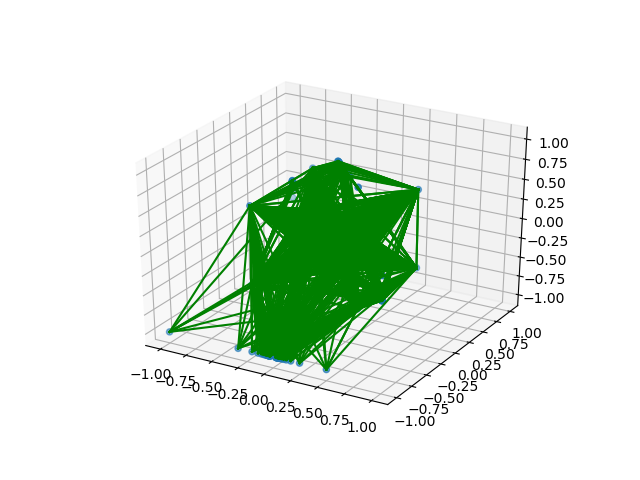
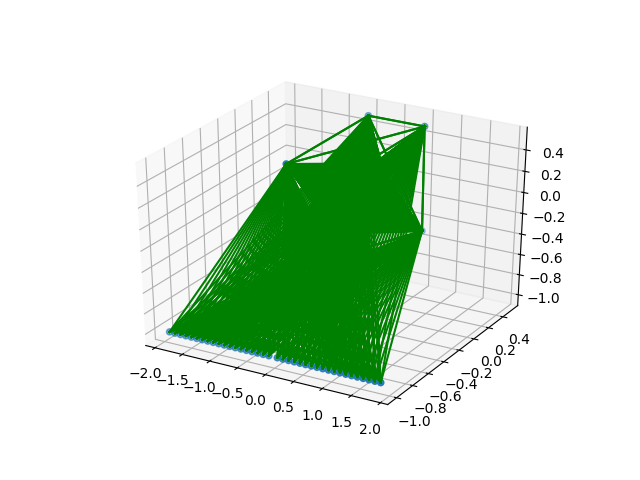
yes

diff --git a/trading_purples.py b/trading_purples.py
@@ -22,19 +22,12 @@ class PurpleTrader:
     #needs to be initialized so as to allow for 62 outputs that return a coordinate
 
     # ES-HyperNEAT specific parameters.
-    params = {"initial_depth": 3, 
+    params = {"initial_depth": 2, 
             "max_depth": 6, 
-<<<<<<< HEAD
-            "variance_threshold": 0.03, 
-            "band_threshold": 0.3, 
-            "iteration_level": 3,
-            "division_threshold": 0.01, 
-=======
-            "variance_threshold": 0.034, 
-            "band_threshold": 0.0034, 
+            "variance_threshold": 0.0013, 
+            "band_threshold": 0.034, 
             "iteration_level": 3,
             "division_threshold": 0.0013, 
->>>>>>> 4da5a6491cbcdd6972a6d0d20077993777c94ed3
             "max_weight": 5.0, 
             "activation": "tanh"}
 
@@ -63,9 +56,9 @@ class PurpleTrader:
         sign = 1
         for ix in range(1,self.outputs+1):
             sign = sign *-1
-            self.out_shapes.append((0.0-(sign*.01*ix), -1.0, -1.0))
+            self.out_shapes.append((0.0-(sign*.05*ix), -1.0, -1.0))
             for ix2 in range(1,(self.inputs//self.outputs)+1):
-                self.in_shapes.append((0.0-(sign*.01*ix2), 0.0+(sign*.01*ix), 0.0-(sign*.01*ix2)))
+                self.in_shapes.append((0.0-(sign*.01*ix2), 0.0+(sign*.01*ix), 0.0+(sign*.01*ix2)))
         self.subStrate = Substrate(self.in_shapes, self.out_shapes)
         self.epoch_len = 89
         
@@ -134,7 +127,7 @@ class PurpleTrader:
 
             cppn = neat.nn.FeedForwardNetwork.create(g, config)
             network = ESNetwork(self.subStrate, cppn, self.params)
-            net = network.create_phenotype_network_nd("current_net.png")
+            net = network.create_phenotype_network_nd()
             g.fitness = self.evaluate(net, network, r_start)
         
 
@@ -154,11 +147,7 @@ def run_pop(task, gens):
 # If run as script.
 if __name__ == '__main__':
     task = PurpleTrader(55)
-<<<<<<< HEAD
-    winners = run_pop(task, 21)
-=======
-    winner = run_pop(task, 21)[0]
->>>>>>> 4da5a6491cbcdd6972a6d0d20077993777c94ed3
+    winner = run_pop(task, 34)[0]
     print('\nBest genome:\n{!s}'.format(winner))
 
     # Verify network output against training data.
